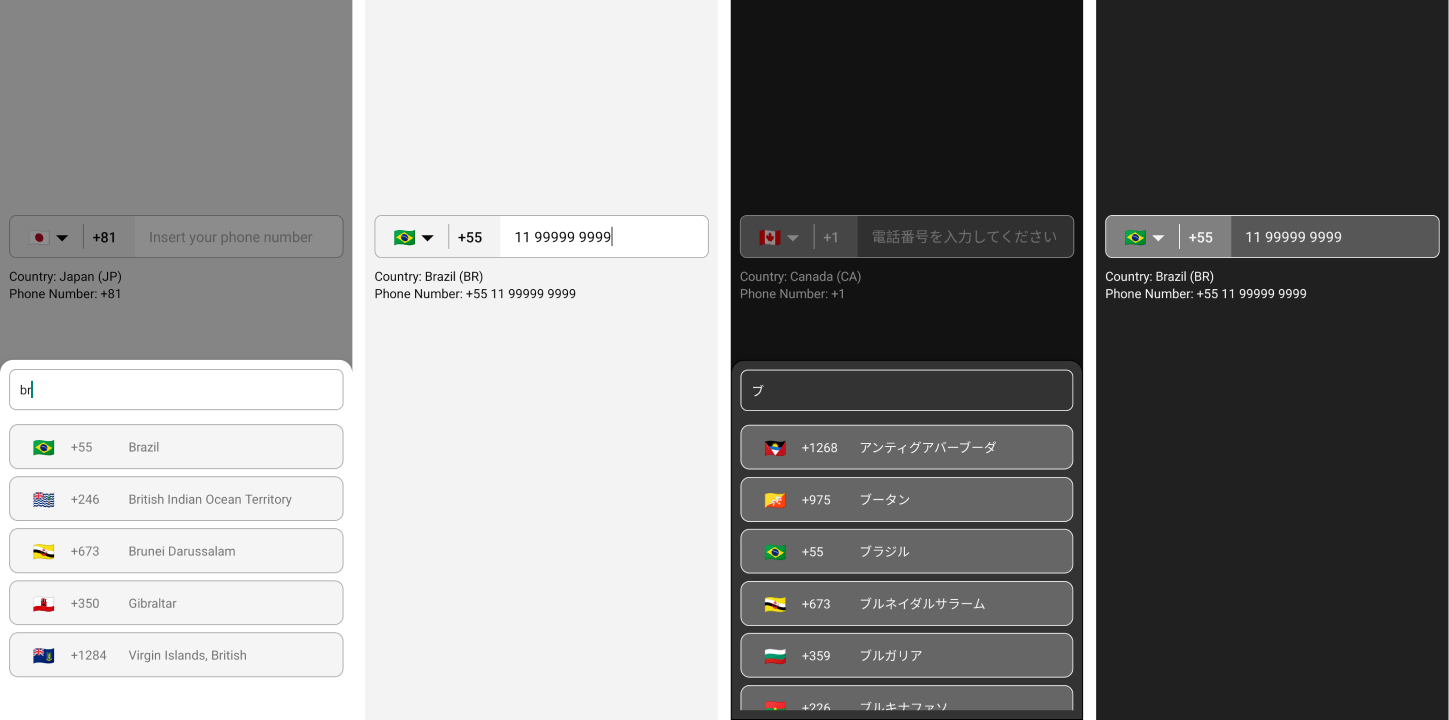
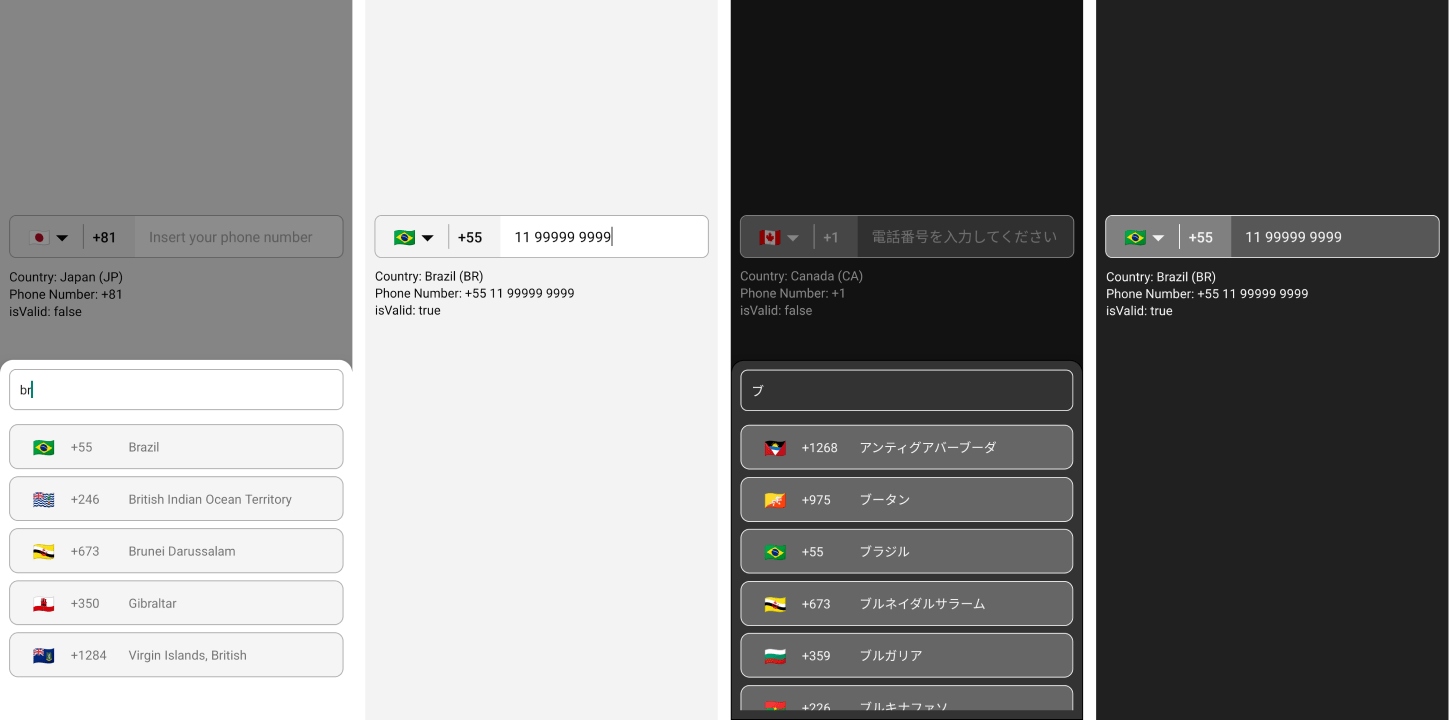
feat: check phone number validation

diff --git a/lib/index.js b/lib/index.js
@@ -21,6 +21,7 @@ import getCountriesByName from './utils/getCountriesByName';
 import getCountriesByCallingCode from './utils/getCountriesByCallingCode';
 import getCountryByCca2 from './utils/getCountryByCca2';
 import getCountryByPhoneNumber from './utils/getCountryByPhoneNumber';
+import isValidPhoneNumber from './utils/isValidPhoneNumber';
 import {
   getCountryNotFoundMessage,
   getPhoneNumberInputPlaceholder,
@@ -97,6 +98,7 @@ const PhoneInput = forwardRef(
       fullPhoneNumber: `${countryValue?.callingCode} ${inputValue}`,
       getSelectedCountry: () => countryValue,
       selectedCountry: countryValue,
+      isValid: isValidPhoneNumber(inputValue, selectedCountry),
       props: {
         theme,
         language,
@@ -143,6 +145,7 @@ const PhoneInput = forwardRef(
           fullPhoneNumber: `${country?.callingCode} ${phoneNumber}`,
           getSelectedCountry: () => country,
           selectedCountry: country,
+          isValid: isValidPhoneNumber(phoneNumber, country),
           props: {
             ...refBase.props,
             value: phoneNumber,
@@ -548,4 +551,5 @@ export {
   getCountryByCca2,
   getCountriesByCallingCode,
   getCountriesByName,
+  isValidPhoneNumber,
 };

diff --git a/lib/index.d.ts b/lib/index.d.ts
@@ -1,3 +1,5 @@
+import { JSX } from 'react';
+
 import { ITheme } from './interfaces/theme';
 import { ICountry } from './interfaces/country';
 import { ILanguage } from './interfaces/language';
@@ -23,6 +25,11 @@ declare function getCountriesByName(
   language: ILanguage
 ): ICountry[] | undefined;
 
+declare function isValidPhoneNumber(
+  phoneNumber: string,
+  country: ICountry
+): boolean;
+
 export default PhoneInput;
 
 export {
@@ -31,6 +38,7 @@ export {
   getCountryByCca2,
   getCountriesByCallingCode,
   getCountriesByName,
+  isValidPhoneNumber,
   ITheme,
   ILanguage,
   ICountry,

diff --git a/lib/utils/isValidPhoneNumber.js b/lib/utils/isValidPhoneNumber.js
@@ -1,0 +1,9 @@
+import {phone} from 'phone';
+
+export default function isValidPhoneNumber(phoneNumber, country) {
+  const isValid = phone(`${country?.callingCode} ${phoneNumber}`, {
+    country: country?.cca2,
+  }).isValid;
+
+  return isValid;
+}

diff --git a/lib/constants/countries.js b/lib/constants/countries.js
@@ -933,7 +933,7 @@ export const countries = [
       zh: '巴西',
       tr: 'Brezilya',
     },
-    phoneMasks: ['## ##### ####'],
+    phoneMasks: ['## #### ####', '## ##### ####'],
   },
   {
     callingCode: '+1',

diff --git a/lib/interfaces/phoneInputRef.ts b/lib/interfaces/phoneInputRef.ts
@@ -13,4 +13,5 @@ export interface IPhoneInputRef extends TextInput {
   fullPhoneNumber: string;
   getSelectedCountry: () => ICountry;
   selectedCountry: ICountry;
+  isValid: boolean;
 }

diff --git a/README.md b/README.md
@@ -42,6 +42,7 @@
 ## Features
 
 - 📱 Works with iOS, Android (Cross-platform), Expo and Web;
+- ✅ Check phone number validation;
 - 🎨 Lib with UI customizable;
 - 🌎 Phone Input Mask according with the selected country;
 - 👨💻 Functional and class component support;
@@ -102,6 +103,7 @@
 
 ## Old Versions
 
+- [Version 0.8.x](https://github.com/AstrOOnauta/react-native-international-phone-number/tree/v0.8.x)
 - [Version 0.7.x](https://github.com/AstrOOnauta/react-native-international-phone-number/tree/v0.7.x)
 - [Version 0.6.x](https://github.com/AstrOOnauta/react-native-international-phone-number/tree/v0.6.x)
 - [Version 0.5.x](https://github.com/AstrOOnauta/react-native-international-phone-number/tree/v0.5.x)
@@ -164,21 +166,6 @@ npx react-native-asset
 
 > Observation: you need to recompile your project after adding new fonts.
 
-- ### Using Web:
-
-Change the `app.json` file to:
-
-```bash
-  ...
-
-  "web": {
-    ...
-    "output": "single",
-    ...
-  },
-  ...
-```
-
 <br>
 
 ## Basic Usage
@@ -188,7 +175,7 @@ Change the `app.json` file to:
 ```jsx
 import React from 'react';
 import { View, Text } from 'react-native';
-import PhoneInput from 'react-native-international-phone-number';
+import PhoneInput, { isValidPhoneNumber } from 'react-native-international-phone-number';
 
 export class App extends React.Component {
   constructor(props) {
@@ -228,6 +215,12 @@ export class App extends React.Component {
           <Text>
             Phone Number: {`${this.state.selectedCountry?.callingCode} ${this.state.inputValue}`}
           </Text>
+          <Text>
+            isValid:{' '}
+            {isValidPhoneNumber(this.state.inputValue, selectedCountry)
+              ? 'true'
+              : 'false'}
+          </Text>
         </View>
       </View>
     );
@@ -240,7 +233,9 @@ export class App extends React.Component {
 ```jsx
 import React, { useState } from 'react';
 import { View, Text } from 'react-native';
-import PhoneInput from 'react-native-international-phone-number';
+import PhoneInput, {
+  isValidPhoneNumber,
+} from 'react-native-international-phone-number';
 
 export default function App() {
   const [selectedCountry, setSelectedCountry] = useState(null);
@@ -271,6 +266,12 @@ export default function App() {
           Phone Number:{' '}
           {`${selectedCountry?.callingCode} ${inputValue}`}
         </Text>
+        <Text>
+          isValid:{' '}
+          {isValidPhoneNumber(inputValue, selectedCountry)
+            ? 'true'
+            : 'false'}
+        </Text>
       </View>
     </View>
   );
@@ -284,6 +285,7 @@ import React, { useState } from 'react';
 import { View, Text } from 'react-native';
 import PhoneInput, {
   ICountry,
+  isValidPhoneNumber,
 } from 'react-native-international-phone-number';
 
 export default function App() {
@@ -316,6 +318,12 @@ export default function App() {
           Phone Number:{' '}
           {`${selectedCountry?.callingCode} ${inputValue}`}
         </Text>
+        <Text>
+          isValid:{' '}
+          {isValidPhoneNumber(inputValue, selectedCountry)
+            ? 'true'
+            : 'false'}
+        </Text>
       </View>
     </View>
   );
@@ -342,7 +350,7 @@ export default function App() {
   function onSubmitRef() {
     Alert.alert(
       'Intermediate Result',
-      `${phoneInputRef.current?.selectedCountry?.callingCode} ${phoneInputRef.current?.value}`
+      `Country: ${inputRef.current?.selectedCountry?.name?.en} \nPhone Number: ${inputRef.current?.fullPhoneNumber} \nisValid: ${inputRef.current?.isValid}`
     );
   }
 
@@ -388,6 +396,7 @@ import React, { useState, useEffect } from 'react';
 import { View, Text, TouchableOpacity, Alert } from 'react-native';
 import PhoneInput, {
   ICountry,
+  isValidPhoneNumber,
 } from 'react-native-international-phone-number';
 import { Controller, FieldValues } from 'react-hook-form';
 
@@ -405,9 +414,15 @@ export default function App() {
   }
 
   function onSubmit(form: FormProps) {
+    const phoneNumber = `${selectedCountry?.callingCode} ${form.phoneNumber}`;
+    const isValid = isValidPhoneNumber(
+      form.phoneNumber,
+      selectedCountry as ICountry
+    );
+
     Alert.alert(
       'Advanced Result',
-      `${selectedCountry?.callingCode} ${form.phoneNumber}`
+      `Country: ${selectedCountry?.name?.en} \nPhone Number: ${phoneNumber} \nisValid: ${isValid}`
     );
   }
 
@@ -788,7 +803,7 @@ export default function App() {
 - `modalNotFoundCountryMessage?:` string;
 - `customCaret?:` [ReactNode](https://reactnative.dev/docs/react-node);
 - `ref?:` [Ref](https://github.com/DefinitelyTyped/DefinitelyTyped/blob/663f439d11d78b65f1dfd38d120f3728ea2cc207/types/react/index.d.ts#L100)<[IPhoneInputRef](lib/interfaces/phoneInputRef.ts)>;
-- `allowZeroAfterCallingCode?:` boolean
+- `allowZeroAfterCallingCode?:` boolean.
 
 <br>
 
@@ -799,6 +814,7 @@ export default function App() {
 - `getCountryByCca2:` (cca2: string) => [ICountry](lib/interfaces/country.ts) | undefined;
 - `getCountriesByName:` (name: string, language: [ILanguage](lib/interfaces/language.ts)) => [ICountry](lib/interfaces/country.ts)[] | undefined;
 - `getCountryByPhoneNumber:` (phoneNumber: string) => [ICountry](lib/interfaces/country.ts) | undefined;
+- `isValidPhoneNumber:` (phoneNumber: string, country: [ICountry](lib/interfaces/country.ts)) => boolean.
 
 </br>
 
